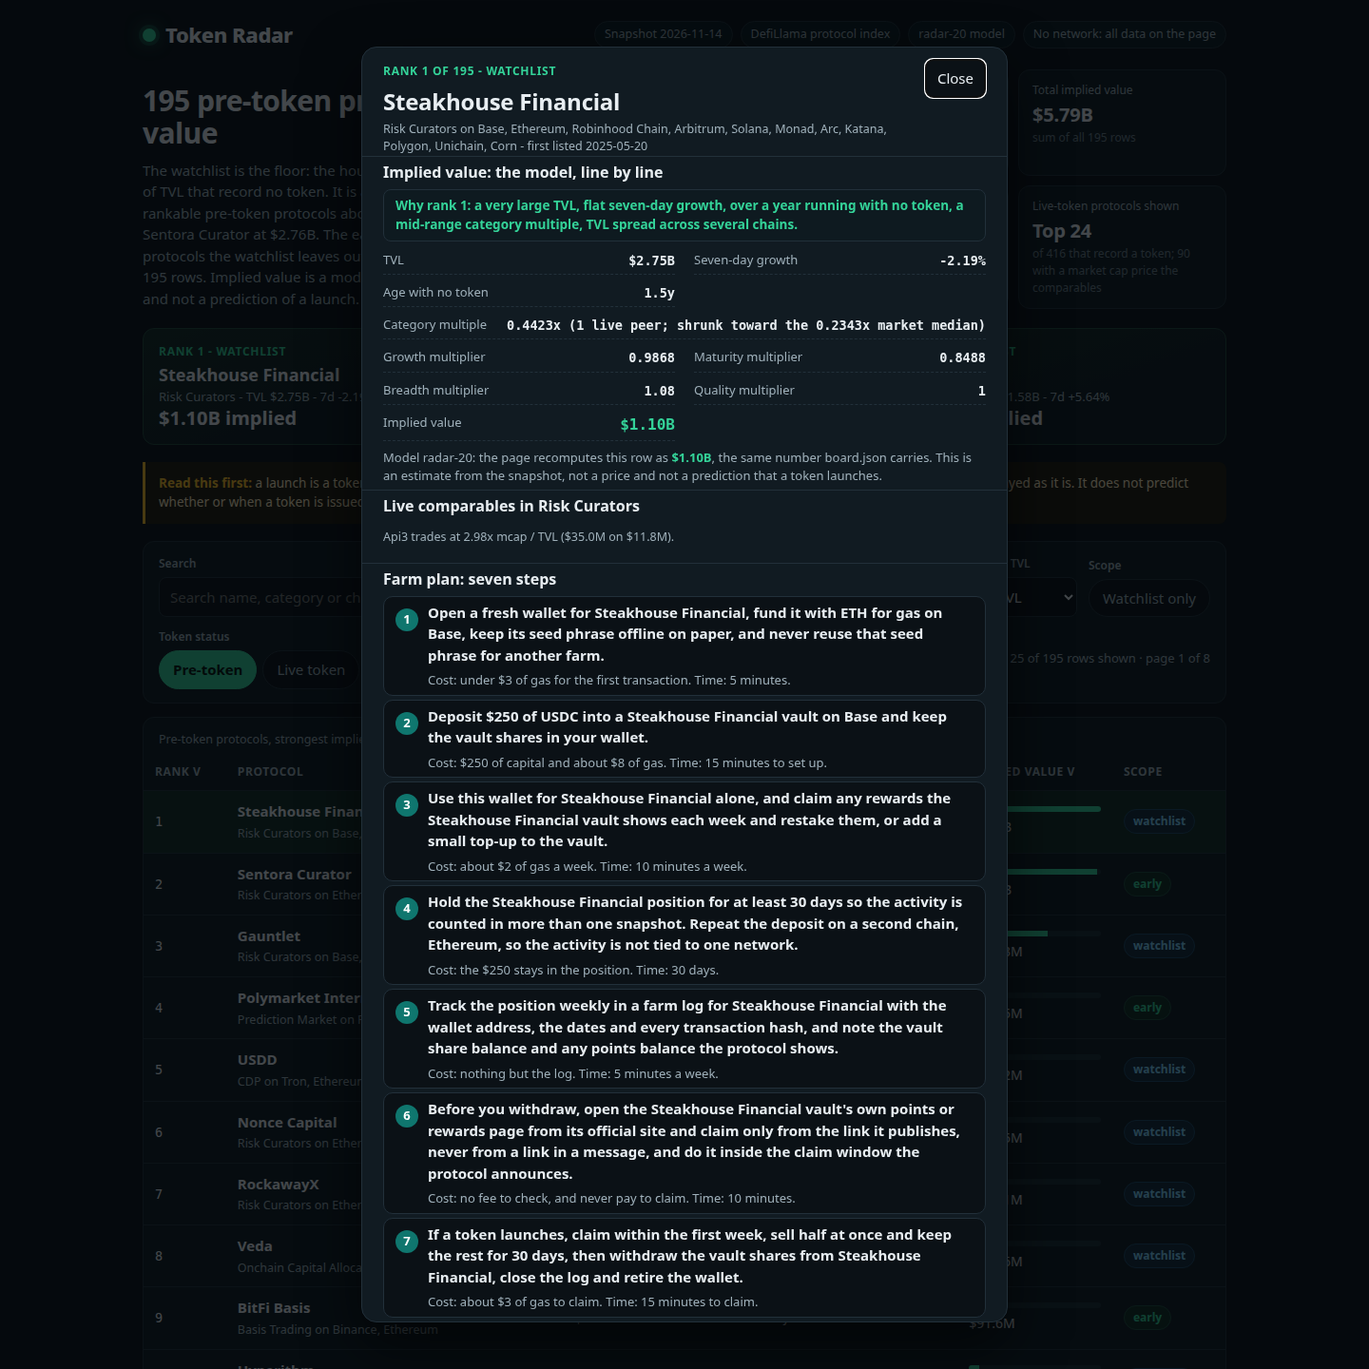
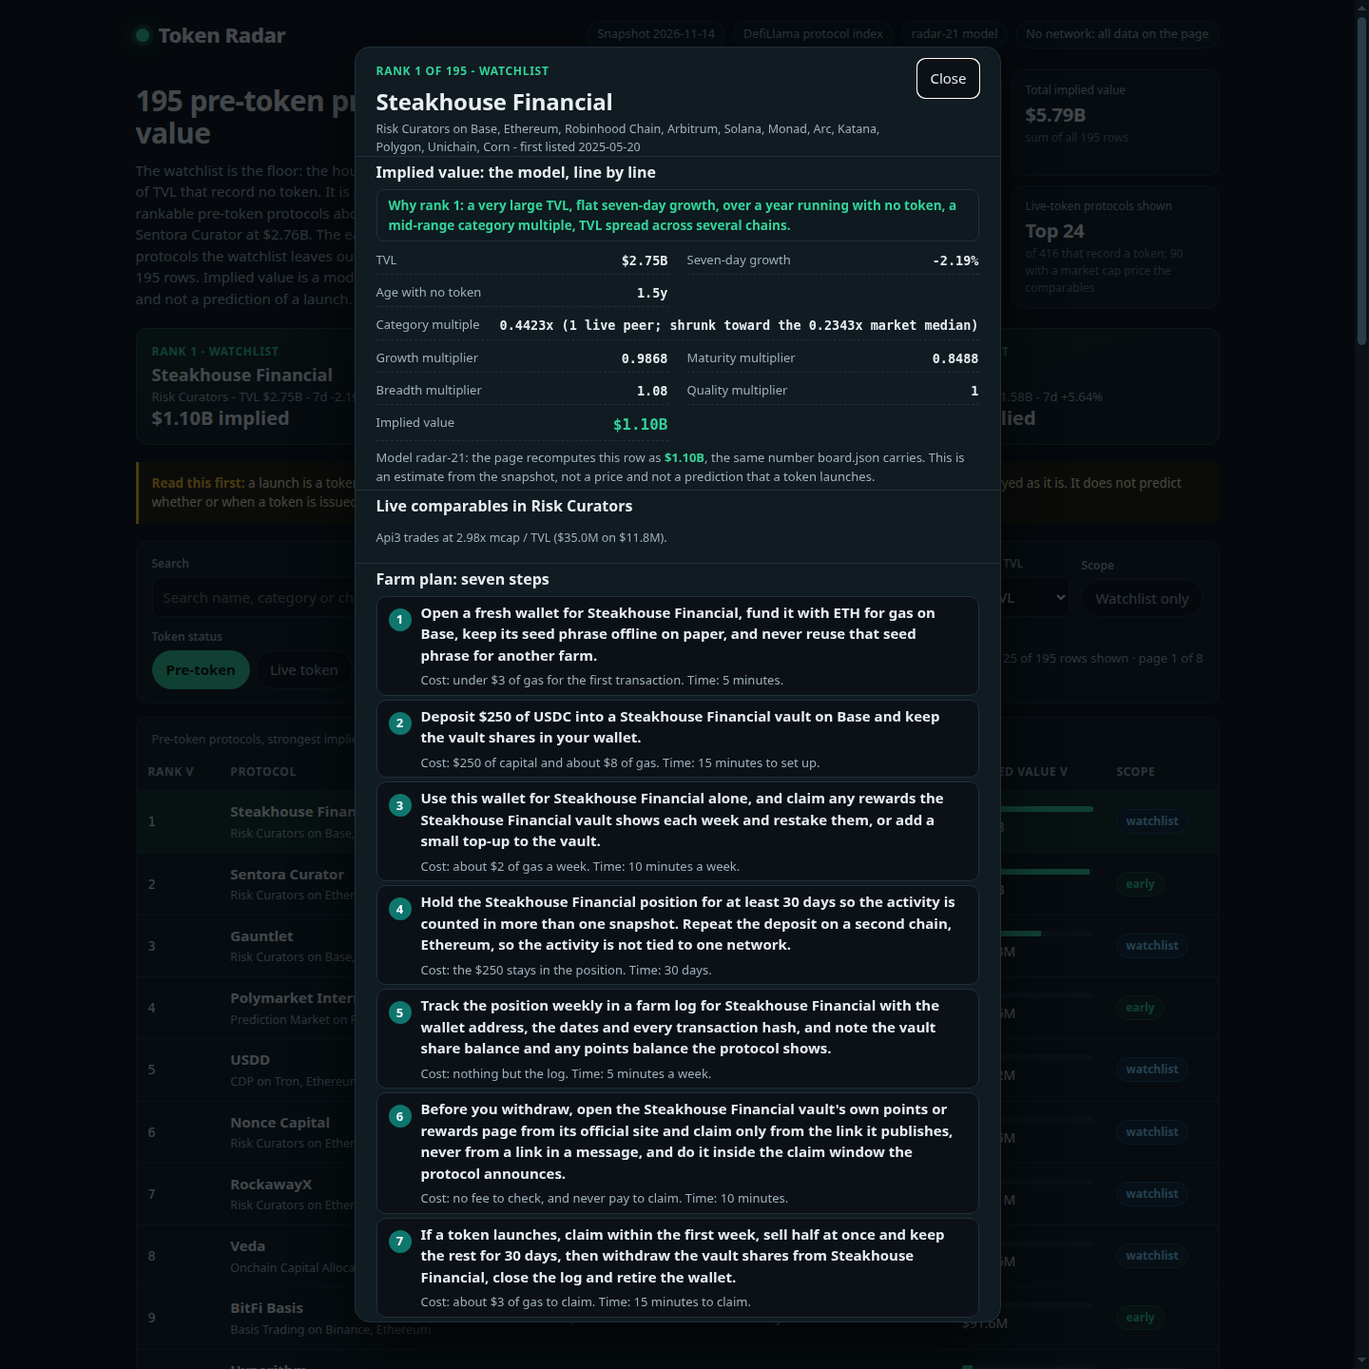
Token Radar radar-21: correct the two Exponent rows round 20 left alone and Figure Markets Prime
Risk Tranching splits a yield-bearing asset into senior and junior
tranches — its first and largest market is ONyc, so its plan deposits
ONyc into the senior tranche for srONyc LP shares instead of USDC into
a vault that does not exist; the yield accrues in the tranche NAV and
senior withdrawals pause in a Recovery Period. Strategy Vaults take the
vault's accepted asset — SOL for the largest vaults — and the largest
vault is the RockawayX-managed onycSOL vault, so its plan deposits SOL
and checks the curator's allocations, with the claim naming the SOL
incentives and OnRe points. Figure Markets Prime is a lender-side
marketplace (Democratized Prime funds HELOC-backed loans), so the
lending shape's borrow-against-your-supply is wrong on either side and
its plan lends USDC into a pool instead. PLAN_CORRECTIONS is now 24 of
195 rows; the scoring never names a protocol. Board unchanged: same 195
rows, same ranks, same implied values; only farm plans move, on 3 rows.
Screenshots retaken for the radar-21 label.

diff --git a/lib/model.ts b/lib/model.ts
@@ -1,4 +1,4 @@
-// Token Radar's model (radar-20): one sealed snapshot in, one ranked board out.
+// Token Radar's model (radar-21): one sealed snapshot in, one ranked board out.
 //
 // The board covers every slug in the snapshot's watchlist (the floor, never a
 // ceiling) plus every other rankable pre-token protocol the watchlist leaves
@@ -122,7 +122,7 @@ export const MODEL: ModelConstants = {
 };
 
 /** The model's version label: the dashboard names it. */
-export const MODEL_VERSION = 'radar-20';
+export const MODEL_VERSION = 'radar-21';
 
 /** How many live-token protocols the Live token view carries, by market cap. */
 export const LIVE_ROWS = 24;
@@ -1073,6 +1073,62 @@ const PLAN_CORRECTIONS: Record<string, PlanCorrection> = {
     track: (p) => `Track the position weekly in a farm log for ${p.name} with the wallet address, the dates and every transaction hash, and note the PT balance, the fixed rate it locked in and the maturity date.`,
     claim: (p) => `A PT redeems for the underlying asset at maturity, so there is no rewards page to claim from — check the redemption on the official ${p.name} page at maturity, and never pay to claim or follow a claim link in a message.`,
     exit: (p) => `If a token launches, claim within the first week, sell half at once and keep the rest for 30 days, then hold the PT to maturity and redeem it for the underlying asset on ${p.name}, close the log and retire the wallet.`,
+  },
+  // Exponent Risk Tranching splits a yield-bearing asset (ONyc, AUTO,
+  // nOPAL, eHYUSD) into a senior tranche and a junior tranche: a farmer
+  // deposits the underlying asset into one side and receives LP shares
+  // for that tranche (srONyc for the senior side of the ONyc market),
+  // the senior side earns the lower yield in exchange for junior capital
+  // sitting beneath it as protection, and the yield accrues in the
+  // tranche's NAV, not on a rewards page. The first and largest market
+  // is ONyc, OnRe's reinsurance token, and senior withdrawals pause
+  // while a tranche is in a Recovery Period after a loss. The yield
+  // shape would tell its farmer to deposit USDC into a vault and keep
+  // vault shares — there is no USDC vault, and there is no Exponent
+  // token or points program. (Exponent docs: Risk Tranching; Vitrine
+  // risk report: ONyc tranche $5.94M NAV, "There is no Exponent token
+  // or Emissions and points program".)
+  'exponent-risk-tranching': {
+    why: 'DefiLlama lists Exponent Risk Tranching under Yield, so the yield shape would tell its farmer to deposit USDC into a vault — but Risk Tranching is not a vault: a farmer deposits the market\u2019s underlying asset into a senior or junior tranche and receives LP shares for that tranche, and there is no USDC to deposit.',
+    action: (p, capital, chain) => `Deposit $${capital} of ONyc into the senior tranche of ${p.name} on ${chain} and hold the srONyc LP shares in your wallet.`,
+    weekly: (p) => `Check the srONyc yield and the tranche\u2019s coverage on ${p.name} each week and hold the position — the senior side earns a lower yield in exchange for junior capital sitting beneath it as protection.`,
+    track: (p) => `Track the position weekly in a farm log for ${p.name} with the wallet address, the dates and every transaction hash, and note the srONyc LP share balance, the senior yield and the tranche\u2019s coverage.`,
+    claim: (p) => `The senior yield accrues in the tranche\u2019s NAV, so there is no rewards page to claim from — check the position on the official ${p.name} page, and never pay to claim or follow a claim link in a message.`,
+    exit: (p) => `If a token launches, claim within the first week, sell half at once and keep the rest for 30 days, then redeem the srONyc LP shares from ${p.name} for ONyc (senior withdrawals pause during a Recovery Period if the tranche takes a loss, so allow extra time), close the log and retire the wallet.`,
+  },
+  // Exponent Strategy Vaults are managed vaults: a farmer deposits the
+  // vault's accepted asset — SOL for the largest vaults — and the vault
+  // manager allocates it across strategies and rebalances it, so there
+  // is nothing to restake by hand. The largest vault is onycSOL,
+  // managed by RockawayX, launched 4 November 2026 with a $10M cap and
+  // weekly withdrawals; it combines SOL staking yield with ONyc and
+  // pays $20K a month of SOL incentives plus 4x OnRe points. The yield
+  // shape would tell its farmer to deposit USDC into a vault and claim
+  // and restake rewards each week — USDC is the smaller line, and the
+  // manager does the allocating. (Exponent docs: Strategy Vaults;
+  // Vitrine risk report: SOL line $12.4M vs USDC $5.9M; onycSOL vault.)
+  'exponent-strategy-vaults': {
+    why: 'DefiLlama lists Exponent Strategy Vaults under Onchain Capital Allocator, so the yield shape would tell its farmer to deposit USDC into a vault — but the vaults take the vault\u2019s accepted asset (SOL for the largest vaults), and the vault manager allocates and rebalances the deposit, so there is nothing to restake by hand.',
+    action: (p, capital, chain) => `Deposit $${capital} of SOL into the onycSOL strategy vault on ${p.name} on ${chain}, managed by RockawayX, and keep the vault shares in your wallet.`,
+    weekly: (p) => `Check the position value and the curator\u2019s allocations on ${p.name} each week and hold it — the manager rebalances the vault, so there is nothing to restake by hand.`,
+    track: (p) => `Track the position weekly in a farm log for ${p.name} with the wallet address, the dates and every transaction hash, and note the vault share balance, the position value and the OnRe points the vault shows that week.`,
+    claim: (p) => `Check the onycSOL vault\u2019s own page on ${p.name} for the SOL incentives and OnRe points it pays, and claim only from the link the official site publishes, never from a link in a message, and do it inside the claim window the protocol announces.`,
+    exit: (p) => `If a token launches, claim within the first week, sell half at once and keep the rest for 30 days, then request a withdrawal of the vault shares from ${p.name} (the onycSOL vault processes withdrawals weekly, so allow extra time), close the log and retire the wallet.`,
+  },
+  // Figure Markets Prime is a lender-side marketplace, not a borrow
+  // market: Democratized Prime lets users lend USDC (or USD, YLDS or
+  // crypto) into pools that fund HELOC-backed loans, while the
+  // Crypto-Backed Loan side posts crypto — BTC, ETH or SOL — as
+  // collateral, never USDC. The lending shape would tell its farmer to
+  // supply USDC as collateral and borrow against it, then repay the
+  // borrow — there is no borrow-against-your-supply on either side.
+  // (Figure Markets: Democratized Prime; SEC Form 497Ad.)
+  'figure-markets-prime': {
+    why: 'DefiLlama lists Figure Markets Prime under Lending, so the lending shape would tell its farmer to supply USDC as collateral and borrow against it — but Democratized Prime is a lender-side marketplace: users lend USDC into pools that fund HELOC-backed loans, and the borrow side posts crypto as collateral, never USDC.',
+    action: (p, capital, chain) => `Lend $${capital} of USDC into a Democratized Prime pool on ${p.name} on ${chain} to fund HELOC-backed loans and keep the pool position in your wallet.`,
+    weekly: (p) => `Check the yield the Democratized Prime pool paid that week on ${p.name} and leave it compounding instead of withdrawing it.`,
+    track: (p) => `Track the position weekly in a farm log for ${p.name} with the wallet address, the dates and every transaction hash, and note the pool balance, the yield it paid that week and the loans it funds.`,
+    exit: (p) => `If a token launches, claim within the first week, sell half at once and keep the rest for 30 days, then withdraw the deposit from the Democratized Prime pool on ${p.name}, close the log and retire the wallet.`,
   },
 };
 

diff --git a/dashboard/app.js b/dashboard/app.js
@@ -1,4 +1,4 @@
-// Token Radar's dashboard (radar-20). It reads window.RADAR (written beside
+// Token Radar's dashboard (radar-21). It reads window.RADAR (written beside
 // dashboard/ by main.ts from the same board.json) and renders the ranked
 // board, the filters, a per-protocol detail view with the model's own
 // breakdown and the protocol's farm plan, and the live-token set kept apart.
@@ -438,7 +438,7 @@
       el('h2', { text: 'How implied value is computed' }),
       el('p', { class: 'sub', text: 'Every row is scored by one function of the snapshot figures. The scoring never special-cases a protocol name, and no row is hand-picked. The comparable is the median market-cap-to-TVL ratio of the live-token protocols in the same category, computed from this snapshot at run time, then shrunk toward the market median in log space with a weight of ' + m.shrink_peers + ' peers: ratios multiply, so the shrinkage averages logarithms, and the raw median is never clamped before shrinking. A category with one live peer never prices at its peer\'s ratio, and a category with no live peer uses the market median outright.' }),
       el('p', { class: 'sub', text: 'The shrinkage is not a guess at a weight: ' + thin + ' of the ' + thinTotal + ' categories priced here have fewer than three live peers, so most multiples would rest on one or two protocols without it. Shrinking in log space matters because the old arithmetic shrink clamped the raw median first: seven single-peer categories, from Options at 1.51x to Prediction Market at 400.20x, all priced at one identical multiple, and a category whose peers trade at 0.002x was lifted to the market by the floor. Now each prices from its own peer, still pulled most of the way to the market, and still capped. With no shrinkage the Risk Curators rows would all price at the 0.80 cap on a single peer; shrunk, they price at ' + (DATA.multiples['Risk Curators'] === undefined ? 'the market median' : DATA.multiples['Risk Curators'].toFixed(4) + 'x') + '.' }),
-      el('p', { class: 'sub', text: 'Farm plans follow the protocol\u2019s category — except where the snapshot\u2019s own record mislabels the protocol, and then the plan follows the protocol\u2019s own documentation instead. Twenty-one plans are corrected that way, in one table in the code: Hive Protocol is B\u00b2 Hive, a BTC staking pool listed as a chain, so its plan stakes BTC for B2 rewards; Firelight is the underwriting side of a cover design listed as insurance, so its plan stakes FXRP for stXRP; Mezo Earn locks BTC for a veBTC vote, not USDC in a governance vault; Abstract is its own Ethereum L2, not Ethereum mainnet, so its plan runs on Abstract; USDD\u2019s vaults take TRX, USDT or WBTC as collateral, never USDC, and its yield comes from sUSDD; DeFi Saver is a management layer that takes no deposits, so its plan opens a position through it and automates it; Bittensor dTAO is a staking system, not an AMM pool, so its plan stakes TAO for alpha; and Polymarket runs no points program, so its plan checks the rewards page that pays in pUSD instead of a claim page. Thirteen more join them in this round: seven CDP plans named USDC as collateral where the vaults take something else — Felix takes HYPE to mint feUSD, Bucket takes SUI to mint BUCK, BIMA and BTCFi take BTC to mint USBD and BtcUSD, Kava Mint takes BTC to mint USDX, Monolith takes ETH to borrow Coin, and Swan DAO takes wstETH to mint swanUSD — and six more shapes named the wrong asset: Avant avETH mints against ETH, not USDC; Origami\u2019s leveraged vaults take the yield-bearing asset itself, USDe; Boros margin is the market\u2019s own asset, ETH; Granite takes sBTC as collateral and lends USDCx; Solv Strategies takes BTC for SolvBTC; and Exponent Yield Exchange is an exchange, not a vault, so its plan swaps a yield-bearing asset for its principal token instead of depositing USDC. The eighth CDP row, STRATO, stays on the generic wording because its own litepaper lists USDC as an accepted CDP collateral at 90% LTV. The scoring never names a protocol; these twenty-one are plan corrections, not a hardcoded ranking.' }),
+      el('p', { class: 'sub', text: 'Farm plans follow the protocol\u2019s category — except where the snapshot\u2019s own record mislabels the protocol, and then the plan follows the protocol\u2019s own documentation instead. Twenty-four plans are corrected that way, in one table in the code: Hive Protocol is B\u00b2 Hive, a BTC staking pool listed as a chain, so its plan stakes BTC for B2 rewards; Firelight is the underwriting side of a cover design listed as insurance, so its plan stakes FXRP for stXRP; Mezo Earn locks BTC for a veBTC vote, not USDC in a governance vault; Abstract is its own Ethereum L2, not Ethereum mainnet, so its plan runs on Abstract; USDD\u2019s vaults take TRX, USDT or WBTC as collateral, never USDC, and its yield comes from sUSDD; DeFi Saver is a management layer that takes no deposits, so its plan opens a position through it and automates it; Bittensor dTAO is a staking system, not an AMM pool, so its plan stakes TAO for alpha; and Polymarket runs no points program, so its plan checks the rewards page that pays in pUSD instead of a claim page. Thirteen more joined them in the last round: seven CDP plans named USDC as collateral where the vaults take something else — Felix takes HYPE to mint feUSD, Bucket takes SUI to mint BUCK, BIMA and BTCFi take BTC to mint USBD and BtcUSD, Kava Mint takes BTC to mint USDX, Monolith takes ETH to borrow Coin, and Swan DAO takes wstETH to mint swanUSD — and six more shapes named the wrong asset: Avant avETH mints against ETH, not USDC; Origami\u2019s leveraged vaults take the yield-bearing asset itself, USDe; Boros margin is the market\u2019s own asset, ETH; Granite takes sBTC as collateral and lends USDCx; Solv Strategies takes BTC for SolvBTC; and Exponent Yield Exchange is an exchange, not a vault, so its plan swaps a yield-bearing asset for its principal token instead of depositing USDC. Three more join them in this round: the two Exponent rows the last round left alone — Risk Tranching\u2019s first and largest market is ONyc, so its plan deposits ONyc into the senior tranche for srONyc LP shares, and Strategy Vaults\u2019 largest vault is the RockawayX-managed onycSOL vault, so its plan deposits SOL — and Figure Markets Prime, where the lending shape\u2019s borrow-against-your-supply is wrong on either side, so its plan lends USDC into a Democratized Prime pool instead. The eighth CDP row, STRATO, stays on the generic wording because its own litepaper lists USDC as an accepted CDP collateral at 90% LTV. The scoring never names a protocol; these twenty-four are plan corrections, not a hardcoded ranking.' }),
       el('div', { class: 'formula' },
         'multiple = exp((peers x ln(categoryMedian) + ' + m.shrink_peers + ' x ln(marketMedian)) / (peers + ' + m.shrink_peers + ')), clamped to [' + m.multiple_floor + ', ' + m.multiple_cap + ']'
       ),

diff --git a/main.ts b/main.ts
@@ -1,4 +1,4 @@
-// Token Radar (radar-20): the entry program, Node 22, standard library only.
+// Token Radar (radar-21): the entry program, Node 22, standard library only.
 //
 // It reads the sealed snapshot from /input/snapshot.json (or --input
 // <file|dir>), scores every rankable pre-token protocol with the model in

diff --git a/README.md b/README.md
@@ -6,6 +6,41 @@ staked or bridged product of one that trades, ranks them by what their launch
 would be worth, and hands in a web dashboard with the board, a detail view
 for every protocol, filters, and a farm plan for each row.
 
+## The model (radar-21)
+
+Radar-21 keeps radar-20's formula and every implied value, and fixes three
+more farm plans the category shapes got wrong — two of them the rows round
+20 deliberately left alone, and one the rows round 20's audit cleared.
+First, the two Exponent rows: round 20 left Risk Tranching and Strategy
+Vaults on the generic wording because no single deposit asset could be
+verified for them, and that reason no longer holds. Risk Tranching splits
+a yield-bearing asset into a senior and a junior tranche — its first and
+largest market is ONyc, OnRe's reinsurance token, at $5.94M of tranche
+NAV — so its plan now deposits ONyc into the senior tranche and holds the
+srONyc LP shares, with the yield accruing in the tranche's NAV and senior
+withdrawals pausing during a Recovery Period; there is no Exponent token
+or points program. Strategy Vaults are managed vaults that take the
+vault's accepted asset — SOL for the largest vaults, $12.4M against $5.9M
+of USDC — and the largest vault is the RockawayX-managed onycSOL vault,
+launched 4 November 2026 with a $10M cap and weekly withdrawals, so its
+plan now deposits SOL into onycSOL and checks the curator's allocations,
+with the claim naming the SOL incentives and OnRe points the vault pays.
+Second, Figure Markets Prime (rank 34): round 20's audit cleared the
+lending rows, but a sample re-check found Prime is a lender-side
+marketplace — Democratized Prime lends USDC into pools that fund
+HELOC-backed loans, and the borrow side posts crypto as collateral,
+never USDC — so the lending shape's supply-USDC-and-borrow-against-it
+is wrong on either side, and its plan now lends USDC into a Democratized
+Prime pool instead. The other clearances from round 20 stand: 3F's
+stablecoin-depositor side, BounceBit Prime's USDC deposits, and perp
+margin. Twenty-four of 195 plans are now corrected in the one table —
+still plan corrections, not a hardcoded ranking: the scoring never names
+a protocol, each entry states why the snapshot's record is wrong and
+gives only the steps the record gets wrong, and every other step still
+comes from the category shape. The board is unchanged: same 195 rows,
+same ranks, same implied values; only farm plans move, on 3 rows, and
+the screenshots are retaken for the radar-21 label.
+
 ## The model (radar-20)
 
 Radar-20 keeps radar-19's formula and every implied value, and fixes the
@@ -414,7 +449,7 @@ rows whose first chain was not a household name name a verified token,
 Tempo names a USD stablecoin because it has no native gas token, and Proton
 says transactions carry no gas fee because it charges none. No row is left
 on the generic wording: BSquared is settled (BTC on the rollup, where the
-farm runs; B2 is gas only on the Hub). Twenty-one plans are corrected against the
+farm runs; B2 is gas only on the Hub). Twenty-four plans are corrected against the
 snapshot's own record, in one table (see Snapshot corrections below): Hive
 Protocol is B² Hive, the network's own BTC staking pool, not a chain, so its
 plan stakes BTC for B2 rewards instead of bridging onto a network; Firelight
@@ -428,7 +463,7 @@ DeFi Saver is a management layer that takes no deposits, so its plan opens a
 position through it and automates it; Bittensor dTAO is a staking system, not
 an AMM pool, so its plan stakes TAO for alpha; and Polymarket runs no points
 program, so its plan checks the rewards page that pays in pUSD instead of a
-claim page. Twenty-one plans in all. The weekly action, the number worth
+claim page. Twenty-four plans in all. The weekly action, the number worth
 logging, the page that would carry a
 claim and the way the position unwinds are all shaped by the category, so a
 lender, a pool and a vault do not farm the same way. Every one of the 32
@@ -446,7 +481,7 @@ them at (flat, and 365 days), never as the oldest or the fastest.
 
 ## Snapshot corrections
 
-Twenty-one farm plans follow the protocol's own documentation instead of the
+Twenty-four farm plans follow the protocol's own documentation instead of the
 snapshot's category, because the snapshot's record mislabels the protocol.
 They live in one table, PLAN_CORRECTIONS in lib/model.ts, keyed by slug,
 each entry stating why the record is wrong and giving only the steps the
@@ -567,6 +602,29 @@ and the scoring never names a protocol.
   row left on the generic wording: its own litepaper lists USDC as an
   accepted CDP collateral at 90% LTV, so the generic asset is genuinely
   accepted there.
+- Exponent Risk Tranching (rank 153): DefiLlama lists it under Yield, and
+  the yield shape would tell its farmer to deposit USDC into a vault —
+  but Risk Tranching splits a yield-bearing asset into a senior and a
+  junior tranche, and there is no USDC vault to deposit into: its first
+  and largest market is ONyc, so its plan deposits ONyc into the senior
+  tranche and holds the srONyc LP shares, with the yield accruing in the
+  tranche's NAV and senior withdrawals pausing during a Recovery Period
+  (Exponent docs: Risk Tranching; Vitrine risk report).
+- Exponent Strategy Vaults (rank 188): DefiLlama lists it under Onchain
+  Capital Allocator, and the yield shape would tell its farmer to deposit
+  USDC into a vault — but the vaults take the vault's accepted asset,
+  SOL for the largest vaults, and the manager allocates and rebalances
+  the deposit: the largest vault is the RockawayX-managed onycSOL vault,
+  so its plan deposits SOL into onycSOL, with the claim naming the SOL
+  incentives and OnRe points the vault pays (Exponent docs: Strategy
+  Vaults; Vitrine risk report).
+- Figure Markets Prime (rank 34): DefiLlama lists it under Lending, and
+  the lending shape would tell its farmer to supply USDC as collateral
+  and borrow against it — but Democratized Prime is a lender-side
+  marketplace: users lend USDC into pools that fund HELOC-backed loans,
+  and the borrow side posts crypto as collateral, never USDC, so its plan
+  lends USDC into a Democratized Prime pool instead (Figure Markets:
+  Democratized Prime; SEC Form 497Ad).
 
 ## Run it
 
